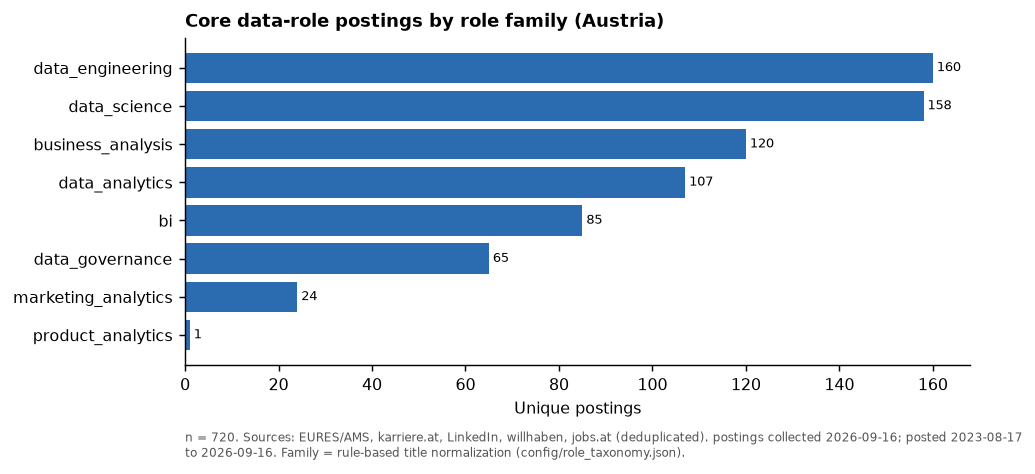
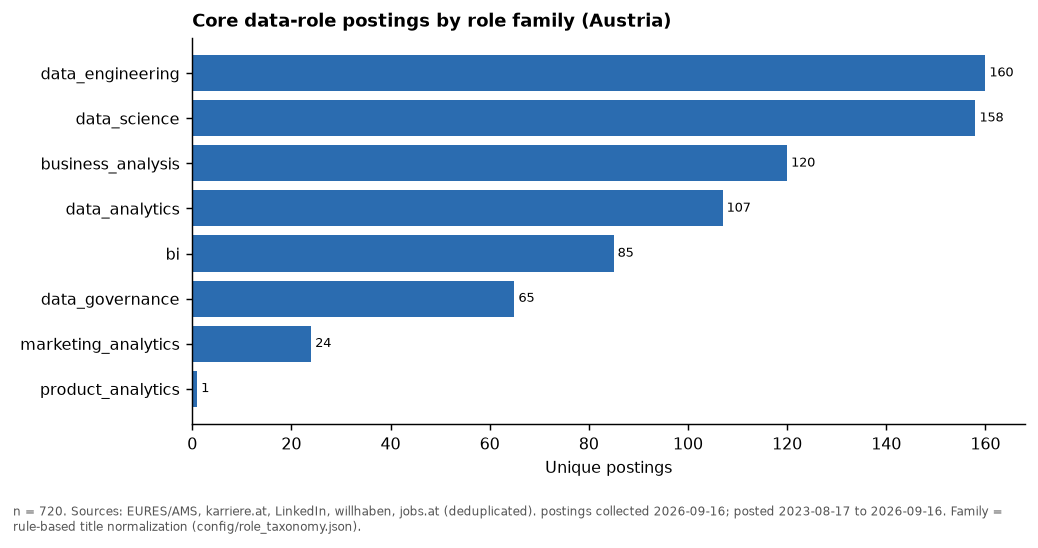
figures: anchor the source footnote below the figure so rotated tick labels no longer overlap it; regenerate F01-F10
foot() used a fixed axes-fraction offset; charts with rotated x labels (F03) drew the labels over the footnote. The footnote is now placed in figure coordinates below the axes and included by bbox_inches='tight'. Data and numbers unchanged.

diff --git a/src/analysis/make_figures.py b/src/analysis/make_figures.py
@@ -21,7 +21,9 @@ plt.rcParams.update({"figure.dpi": 130, "font.size": 9, "axes.spines.top": False
 
 
 def foot(ax, n, extra=""):
-    ax.annotate(f"n = {n}. {SRC}. {PERIOD}. {extra}", xy=(0, -0.28), xycoords="axes fraction", fontsize=6.5, color="#555", wrap=True)
+    # Anchored below the whole figure (not at a fixed axes fraction) so rotated tick labels
+    # can never overlap it; bbox_inches="tight" at save time includes it in the PNG.
+    ax.figure.text(0.01, -0.02, f"n = {n}. {SRC}. {PERIOD}. {extra}", fontsize=6.5, color="#555", ha="left", va="top", wrap=True)
 
 
 def barh(df, cat, val, title, fname, n, xlabel, top=25, extra="", ci=None):
